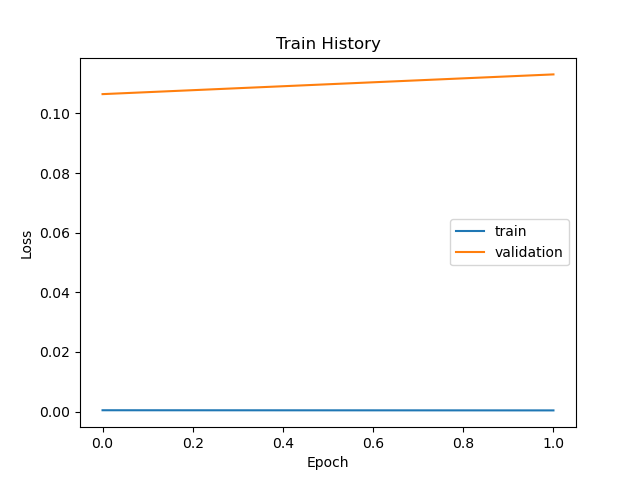
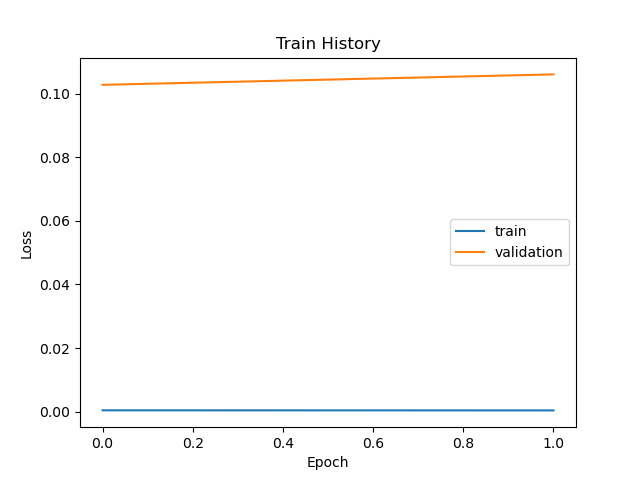
improve mrr by using larger dataset and increase batch size

diff --git a/nn.py b/nn.py
@@ -11,7 +11,7 @@ import argparse
 
 parser = argparse.ArgumentParser()
 parser.add_argument('--dataset', default='trivago_imp', help='dataset name: diginetica/yoochoose1_4/yoochoose1_64/sample/trivago_imp')
-parser.add_argument('--batchSize', type=int, default=256, help='input batch size')
+parser.add_argument('--batchSize', type=int, default=1024, help='input batch size')
 parser.add_argument('--hiddenSize', type=int, default=128, help='hidden state size')
 parser.add_argument('--epoch', type=int, default=30, help='the number of epochs to train for')
 parser.add_argument('--lr', type=float, default=0.001, help='learning rate')  # [0.001, 0.0005, 0.0001]
@@ -71,7 +71,6 @@ class Net(torch.nn.Module):
         user_embeddings = []
         batch_size = item_id.size(0)
 
-        # todo 讓 SR-GNN也共用 item embedding
         # embedding of all categorical features
         emb_item = self.emb_dict['item_id'](item_id)
         emb_past_interactions = self.emb_dict['item_id'](past_interactions)
@@ -96,10 +95,12 @@ class Net(torch.nn.Module):
         # emb_past_interactions = emb_past_interactions.permute(0,2,1)  # (1024, 10, 128) to (1024, 128, 10)
         # pooled_interaction = F.max_pool1d(emb_past_interactions, kernel_size=self.config.sequence_length).squeeze(2)  # (1024, 128)
 
+        # todo 目前 data是僅限 click_out item, 可以嘗試用完整seq
         _, pooled_interaction = forward(self.srgnn, slices, data, self.emb_dict['item_id'])
 
         # concatenate sequence of item ids and actions to model session dynamics
         emb_past_interactions_sess = torch.cat([emb_past_interactions_sess, emb_past_actions_sess], dim=2)
+        # todo 考慮將 gru以 SR-GNN取代之
         emb_past_interactions_sess, _ = self.gru_sess(emb_past_interactions_sess)
         emb_past_interactions_sess = emb_past_interactions_sess.permute(0, 2, 1)
         pooled_interaction_sess = F.max_pool1d(emb_past_interactions_sess, kernel_size=self.config.sess_length).squeeze(2)
@@ -109,9 +110,6 @@ class Net(torch.nn.Module):
         item_interaction = emb_item * pooled_interaction
         item_last_item = emb_item * emb_last_item
         item_last_click_item = emb_item * emb_last_click_item
-        # item_interaction = torch.mm(emb_item, pooled_interaction.T)
-        # item_last_item = torch.mm(emb_item, emb_last_item.T)
-        # item_last_click_item = torch.mm(emb_item, emb_last_click_item.T)
         imp_last_idx = emb_impression_index * emb_last_interact_index
 
         # efficiently compute the aggregation of feature interactions 
@@ -249,7 +247,7 @@ def forward(model, i, data, item_emb):
     # A = trans_to_cpu(torch.Tensor(A).float())
     # mask = trans_to_cpu(torch.Tensor(mask).long())
 
-    # todo 這裡的 items先過 embedding
+    # 這裡的 items先過 embedding
     items = item_emb(items)
     hidden = model(items, A)  # run model.forward()
     get = lambda i: hidden[i][alias_inputs[i]]

diff --git a/data.py b/data.py
@@ -766,7 +766,7 @@ class NNDataGenerator():
             else:
                 padded_transformed_impressions = transformed_impressions.copy()
             # padded_transformed_impressions = np.array([transformed_impressions[0]] * 2 + transformed_impressions.tolist() + [transformed_impressions[-1]] * 2)
-            padded_prices =  [ row.prices[0]] * 2 +  row.prices + [row.prices[-1]]*2
+            padded_prices = [row.prices[0]] * 2 + row.prices + [row.prices[-1]]*2
             price_rank = compute_rank(row.prices)
             current_rows = np.zeros([len(row.impressions), 41], dtype=object)
             current_rows[:, 0] = row.user_id

diff --git a/config.py b/config.py
@@ -9,7 +9,7 @@ class Configuration(object):
     def __init__(self):
         self.alias = None
         self.num_epochs = 1
-        self.batch_size = 256
+        self.batch_size = 1024
         self.optimizer = 'adam'
         self.use_cuda = True
         # self.use_cuda = False

diff --git a/constant.py b/constant.py
@@ -1,5 +1,5 @@
-# input_dir = './datasets/trivago_imp'
-input_dir = './datasets/trivago_sample'
+input_dir = './datasets/trivago_imp'  # 25 % data
+# input_dir = './datasets/trivago_sample'  # 10% data
 output_dir = './output'
 weights_dir = './weights'
 
